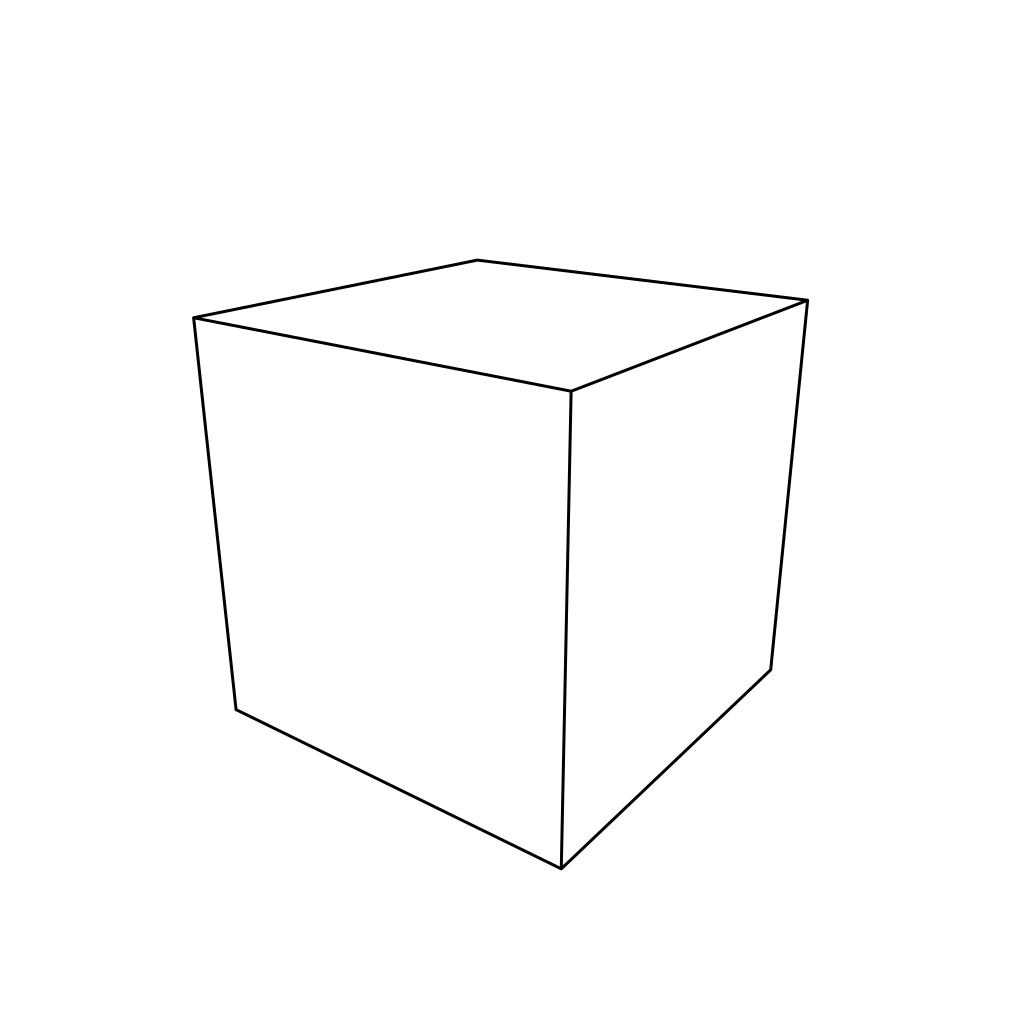
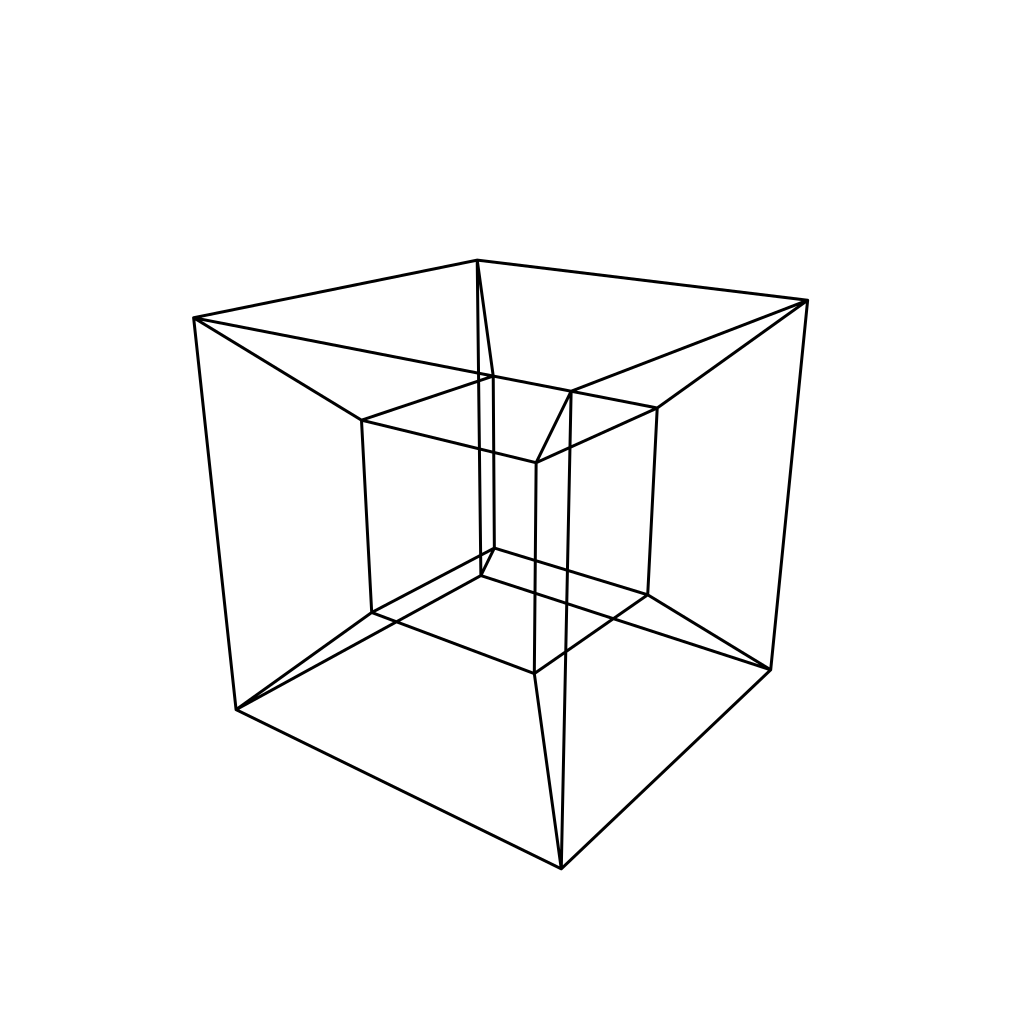
implement go version of hypercube vertices and edges

diff --git a/go/hypercube.go b/go/hypercube.go
@@ -1,51 +1,152 @@
 package main
 
 import "github.com/fogleman/ln/ln"
+//import "math"
 
-type Hypercube struct {
-        Min ln.Vector
-        Max ln.Vector
+func CalcPath(p1 ln.Vector, p2 ln.Vector, p3 ln.Vector, p4 ln.Vector, t float64) ln.Vector {
+
+  newVec := ln.Vector{0, 0, 0}
+
+  if t >= 0 && t < 0.25 {
+    newVec.X = p4.X + (p1.X - p4.X ) * t * 4;
+    newVec.Y = p4.Y + (p1.Y - p4.Y ) * t * 4;
+    newVec.Z = p4.Z + (p1.Z - p4.Z ) * t * 4;
+  } else if t >= 0.25 && t < 0.5 {
+    newVec.X = p1.X + (p2.X - p1.X ) * (t - 0.25) * 4;
+    newVec.Y = p1.Y + (p2.Y - p1.Y ) * (t - 0.25) * 4;
+    newVec.Z = p1.Z + (p2.Z - p1.Z ) * (t - 0.25) * 4;
+  } else if t >= 0.5 && t < 0.75 {
+    newVec.X = p2.X + (p3.X - p2.X ) * (t - 0.5) * 4;
+    newVec.Y = p2.Y + (p3.Y - p2.Y ) * (t - 0.5) * 4;
+    newVec.Z = p2.Z + (p3.Z - p2.Z ) * (t - 0.5) * 4;
+  } else if t >= 0.75 && t < 1.0 {
+    newVec.X = p3.X + (p4.X - p3.X ) * (t - 0.75) * 4;
+    newVec.Y = p3.Y + (p4.Y - p3.Y ) * (t - 0.75) * 4;
+    newVec.Z = p3.Z + (p4.Z - p3.Z ) * (t - 0.75) * 4;
+  }
+
+  return newVec;
 }
 
-func NewHypercube(min, max ln.Vector) *Hypercube {
-	return &Hypercube{min, max}
+type Hypercube struct {
+        Vertices [16]ln.Vector
+	Box ln.Box
+}
+
+func NewHypercube(t float64) *Hypercube {
+        min, max := ln.Vector{-1,-1,-1}, ln.Vector{ 1, 1, 1}
+        
+        verticesStart := [16]ln.Vector{
+                ln.Vector{-0.5, -0.5, -0.5},
+                ln.Vector{ 0.5, -0.5, -0.5},
+                ln.Vector{ 0.5, 0.5, -0.5},
+                ln.Vector{-0.5, 0.5, -0.5},
+                
+                ln.Vector{-0.5, -0.5, 0.5},
+                ln.Vector{ 0.5, -0.5, 0.5},
+                ln.Vector{ 0.5, 0.5, 0.5},
+                ln.Vector{-0.5, 0.5, 0.5},
+                
+                ln.Vector{-1, -1, -1},
+                ln.Vector{ 1, -1, -1},
+                ln.Vector{ 1, 1, -1},
+                ln.Vector{-1, 1, -1},
+                
+                ln.Vector{-1, -1, 1},
+                ln.Vector{ 1, -1, 1},
+                ln.Vector{ 1, 1, 1},
+                ln.Vector{-1, 1, 1},
+        }
+        
+        verticesNow := [16]ln.Vector{
+                CalcPath(verticesStart[8], verticesStart[9], verticesStart[1], verticesStart[0], t),
+                CalcPath(verticesStart[0], verticesStart[8], verticesStart[9], verticesStart[1], t),
+                CalcPath(verticesStart[3], verticesStart[11], verticesStart[10], verticesStart[2], t),
+                CalcPath(verticesStart[11], verticesStart[10], verticesStart[2], verticesStart[3], t),
+                CalcPath(verticesStart[12], verticesStart[13], verticesStart[5], verticesStart[4], t),
+                CalcPath(verticesStart[4], verticesStart[12], verticesStart[13], verticesStart[5], t),
+                CalcPath(verticesStart[7], verticesStart[15], verticesStart[14], verticesStart[6], t),
+                CalcPath(verticesStart[15], verticesStart[14], verticesStart[6], verticesStart[7], t),
+                CalcPath(verticesStart[9], verticesStart[1], verticesStart[0], verticesStart[8], t),
+                CalcPath(verticesStart[1], verticesStart[0], verticesStart[8], verticesStart[9], t),
+                CalcPath(verticesStart[2], verticesStart[3], verticesStart[11], verticesStart[10], t),
+                CalcPath(verticesStart[10], verticesStart[2], verticesStart[3], verticesStart[11], t),
+                CalcPath(verticesStart[13], verticesStart[5], verticesStart[4], verticesStart[12], t),
+                CalcPath(verticesStart[5], verticesStart[4], verticesStart[12], verticesStart[13], t),
+                CalcPath(verticesStart[6], verticesStart[7], verticesStart[15], verticesStart[14], t),
+                CalcPath(verticesStart[14], verticesStart[6], verticesStart[7], verticesStart[15], t),
+        }
+	
+        box := ln.Box{min, max}
+	return &Hypercube{verticesNow, box}
+}
+
+func (c *Hypercube) Compile() {
+}
+
+func (c *Hypercube) BoundingBox() ln.Box {
+	return c.Box
+}
+
+func (c *Hypercube) Contains(v ln.Vector, f float64) bool {
+        min, max := ln.Vector{-1, -1, -1}, ln.Vector{1, 1, 1}
+	if v.X < min.X-f || v.X > max.X+f {
+		return false
+	}
+	if v.Y < min.Y-f || v.Y > max.Y+f {
+		return false
+	}
+	if v.Z < min.Z-f || v.Z > max.Z+f {
+		return false
+	}
+	return true
+}
+
+func (c *Hypercube) Intersect(r ln.Ray) ln.Hit {
+        /*min, max := ln.Vector{-1,-1,-1}, ln.Vector{ 1, 1, 1}
+	n := min.Sub(r.Origin).Div(r.Direction)
+	f := max.Sub(r.Origin).Div(r.Direction)
+	n, f = n.Min(f), n.Max(f)
+	t0 := math.Max(math.Max(n.X, n.Y), n.Z)
+	t1 := math.Min(math.Min(f.X, f.Y), f.Z)
+	if t0 < 1e-3 && t1 > 1e-3 {
+		return ln.Hit{c, t1}
+	}
+	if t0 >= 1e-3 && t0 < t1 {
+		return ln.Hit{c, t0}
+	}*/
+	return ln.NoHit
 }
 
 func (c *Hypercube) Paths() ln.Paths {
-	x1, y1, z1 := c.Min.X, c.Min.Y, c.Min.Z
-	x2, y2, z2 := c.Max.X, c.Max.Y, c.Max.Z
-	paths := ln.Paths{
-		{{x1, y1, z1}, {x1, y1, z2}},
-		{{x1, y1, z1}, {x1, y2, z1}},
-		{{x1, y1, z1}, {x2, y1, z1}},
-		{{x1, y1, z2}, {x1, y2, z2}},
-		{{x1, y1, z2}, {x2, y1, z2}},
-		{{x1, y2, z1}, {x1, y2, z2}},
-		{{x1, y2, z1}, {x2, y2, z1}},
-		{{x1, y2, z2}, {x2, y2, z2}},
-		{{x2, y1, z1}, {x2, y1, z2}},
-		{{x2, y1, z1}, {x2, y2, z1}},
-		{{x2, y1, z2}, {x2, y2, z2}},
-		{{x2, y2, z1}, {x2, y2, z2}},
-	}
-	return paths
-	paths = paths[:0]
-	for i := 0; i <= 10; i++ {
-		p := float64(i) / 10
-		var x, y float64
-		x = x1 + (x2-x1)*p
-		y = y1 + (y2-y1)*p
-		paths = append(paths, ln.Path{{x, y1, z1}, {x, y1, z2}})
-		paths = append(paths, ln.Path{{x, y2, z1}, {x, y2, z2}})
-		paths = append(paths, ln.Path{{x1, y, z1}, {x1, y, z2}})
-		paths = append(paths, ln.Path{{x2, y, z1}, {x2, y, z2}})
-	}
+        
+        vertexJoins := [32][2]int{
+                {0, 1}, {1, 2}, {2, 3}, {3, 0},
+                {0, 4}, {1, 5}, {2, 6}, {3, 7},
+                {4, 5}, {5, 6}, {6, 7}, {7, 4},
+ 
+                {0, 8}, {1, 9}, {2, 10}, {3, 11},
+                {4, 12}, {5, 13}, {6, 14}, {7, 15},
+
+                {8, 9}, {9, 10}, {10, 11}, {11, 8},
+                {8, 12}, {9, 13}, {10, 14}, {11, 15},
+                {12, 13}, {13, 14}, {14, 15}, {15, 12},
+        }
+        
+        var paths ln.Paths
+        
+        for i := 0; i < 32; i++ {
+                paths = append(paths, ln.Path{c.Vertices[vertexJoins[i][0]], c.Vertices[vertexJoins[i][1]]})
+        }
+        
 	return paths
 }
 
 func main() {
+        hc := NewHypercube(0.0)
+        
         scene := ln.Scene{}
-        scene.Add(ln.NewCube(ln.Vector{-1, -1, -1}, ln.Vector{1, 1, 1}))
+        scene.Add(hc)
 
         eye := ln.Vector{4, 3, 2}         // camera position
         center := ln.Vector{0, 0, 0}      // camera looks at

diff --git a/README.md b/README.md
@@ -1,7 +1,7 @@
 # hypercube
 
-A simple hypercube/tesseract animation created in three.js.
+A simple hypercube/tesseract animation
 
 <p align="center">
-  <img src="hypercube.gif" />
+  <img src="js/hypercube.gif" />
 </p>
